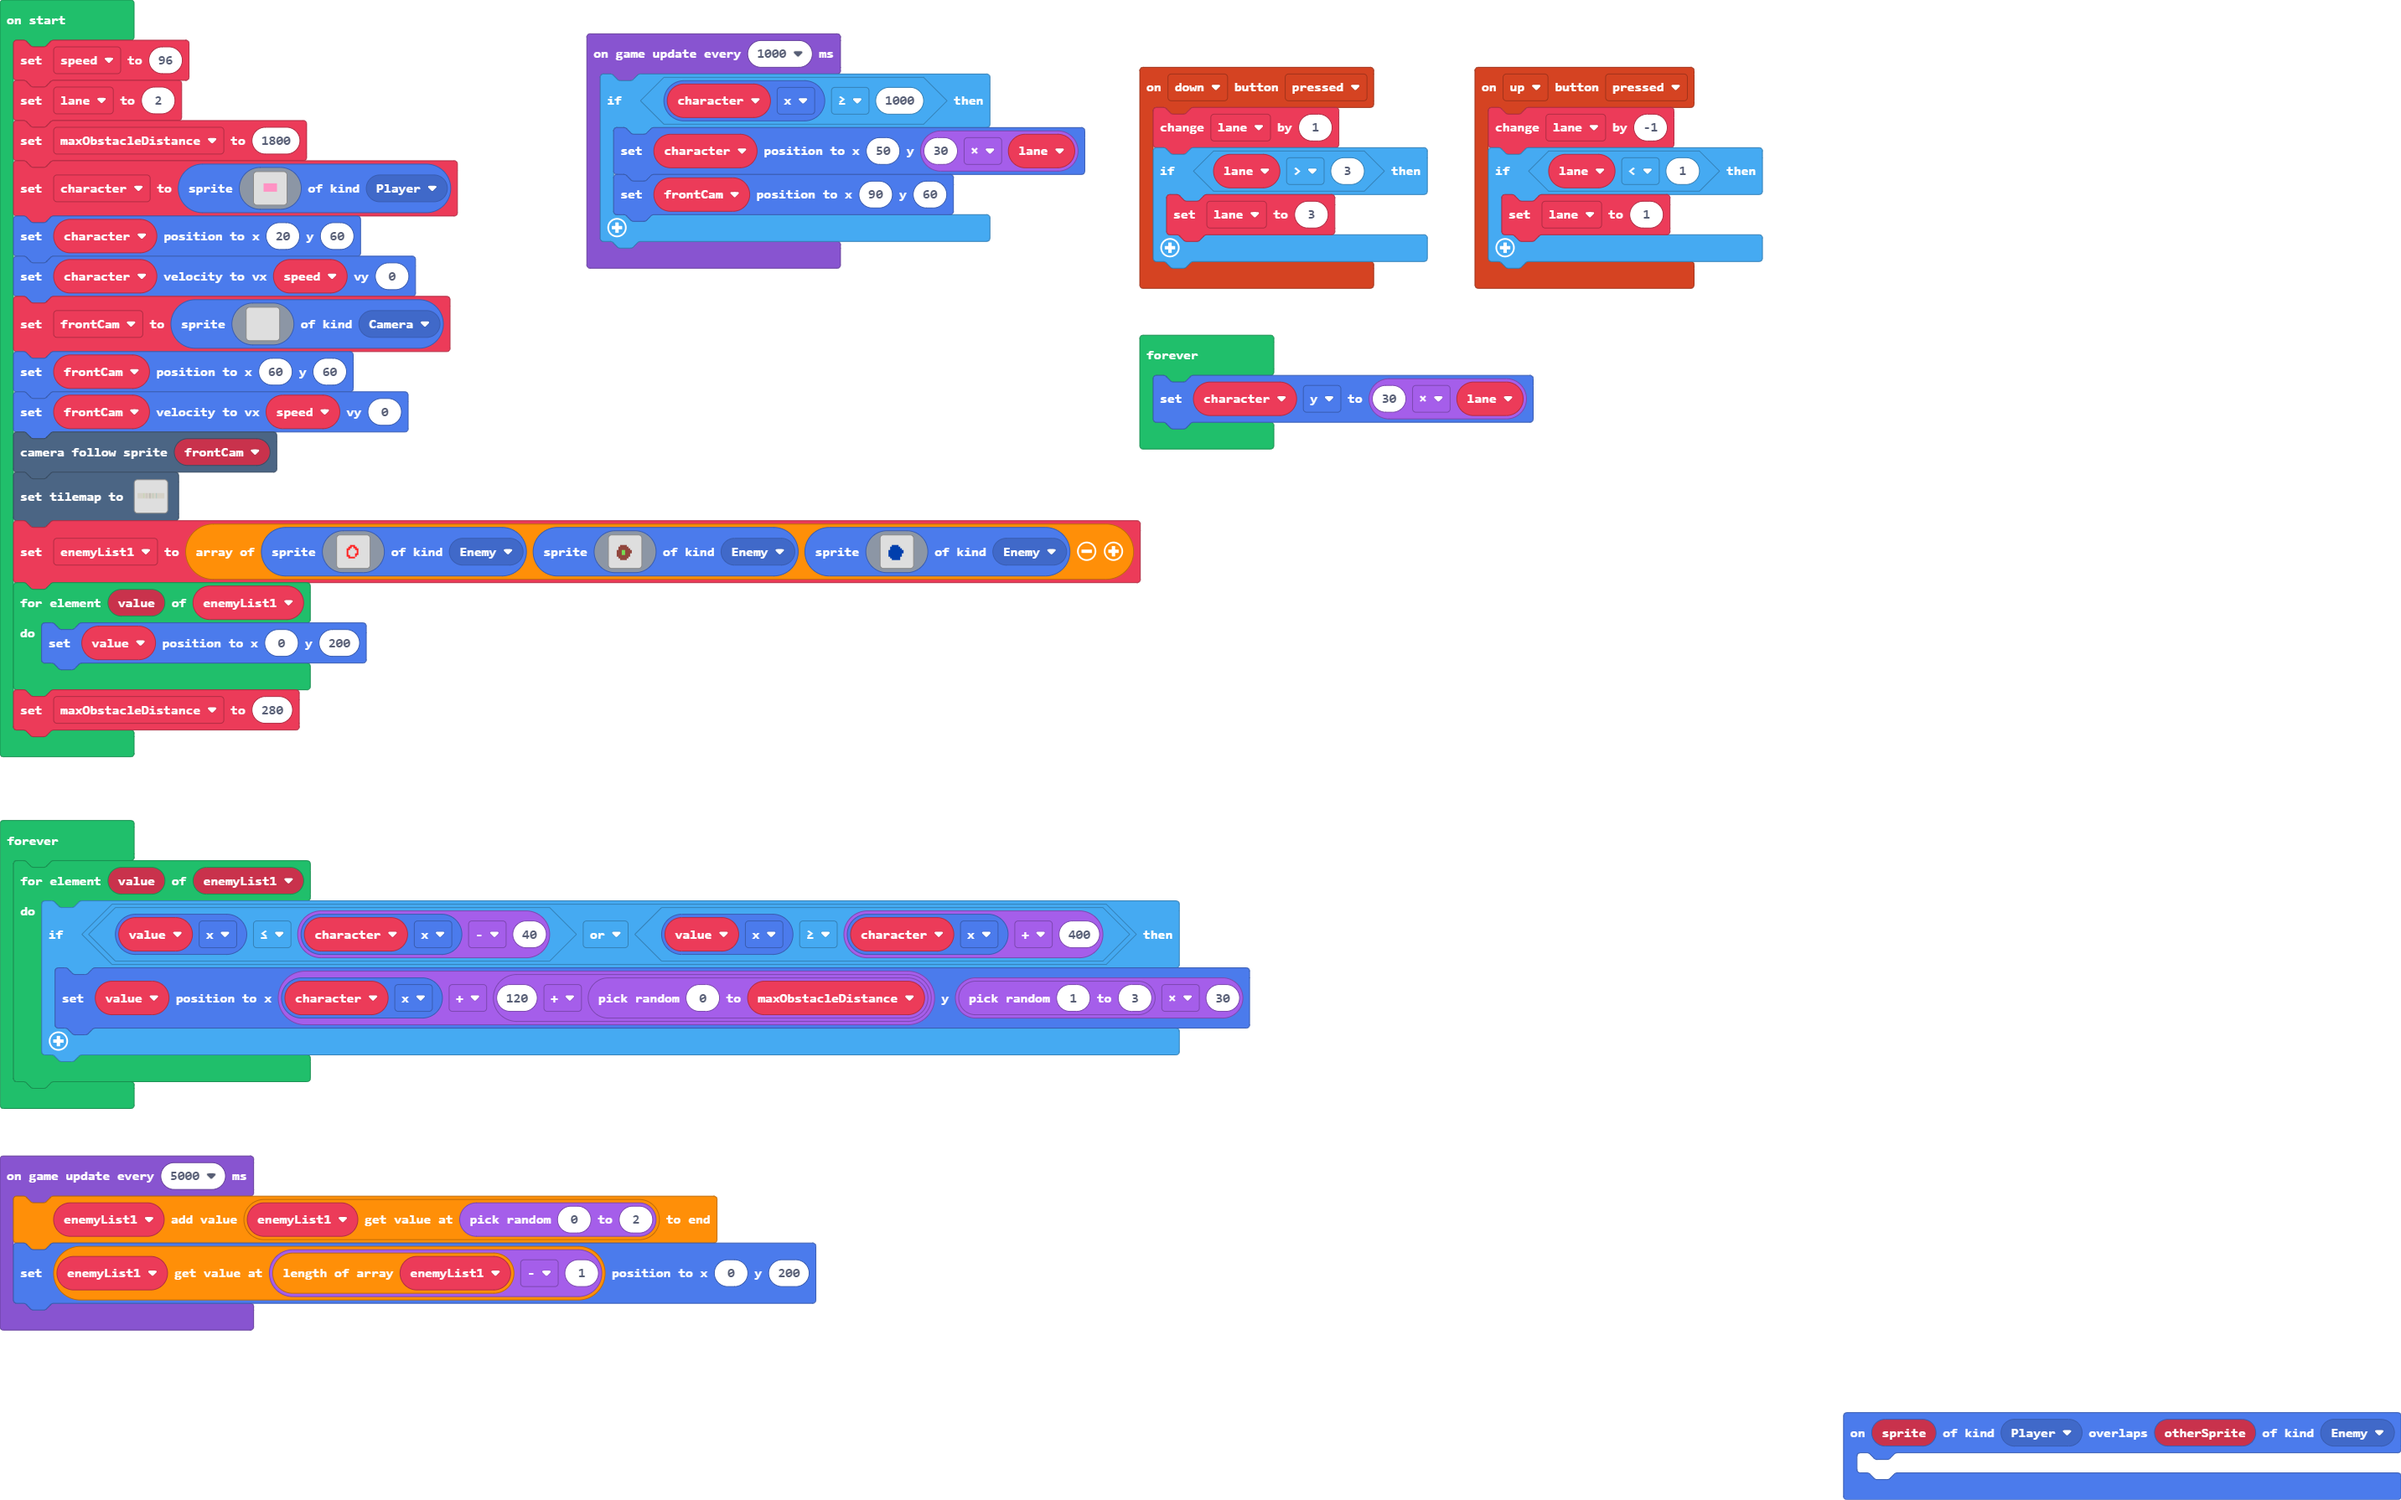
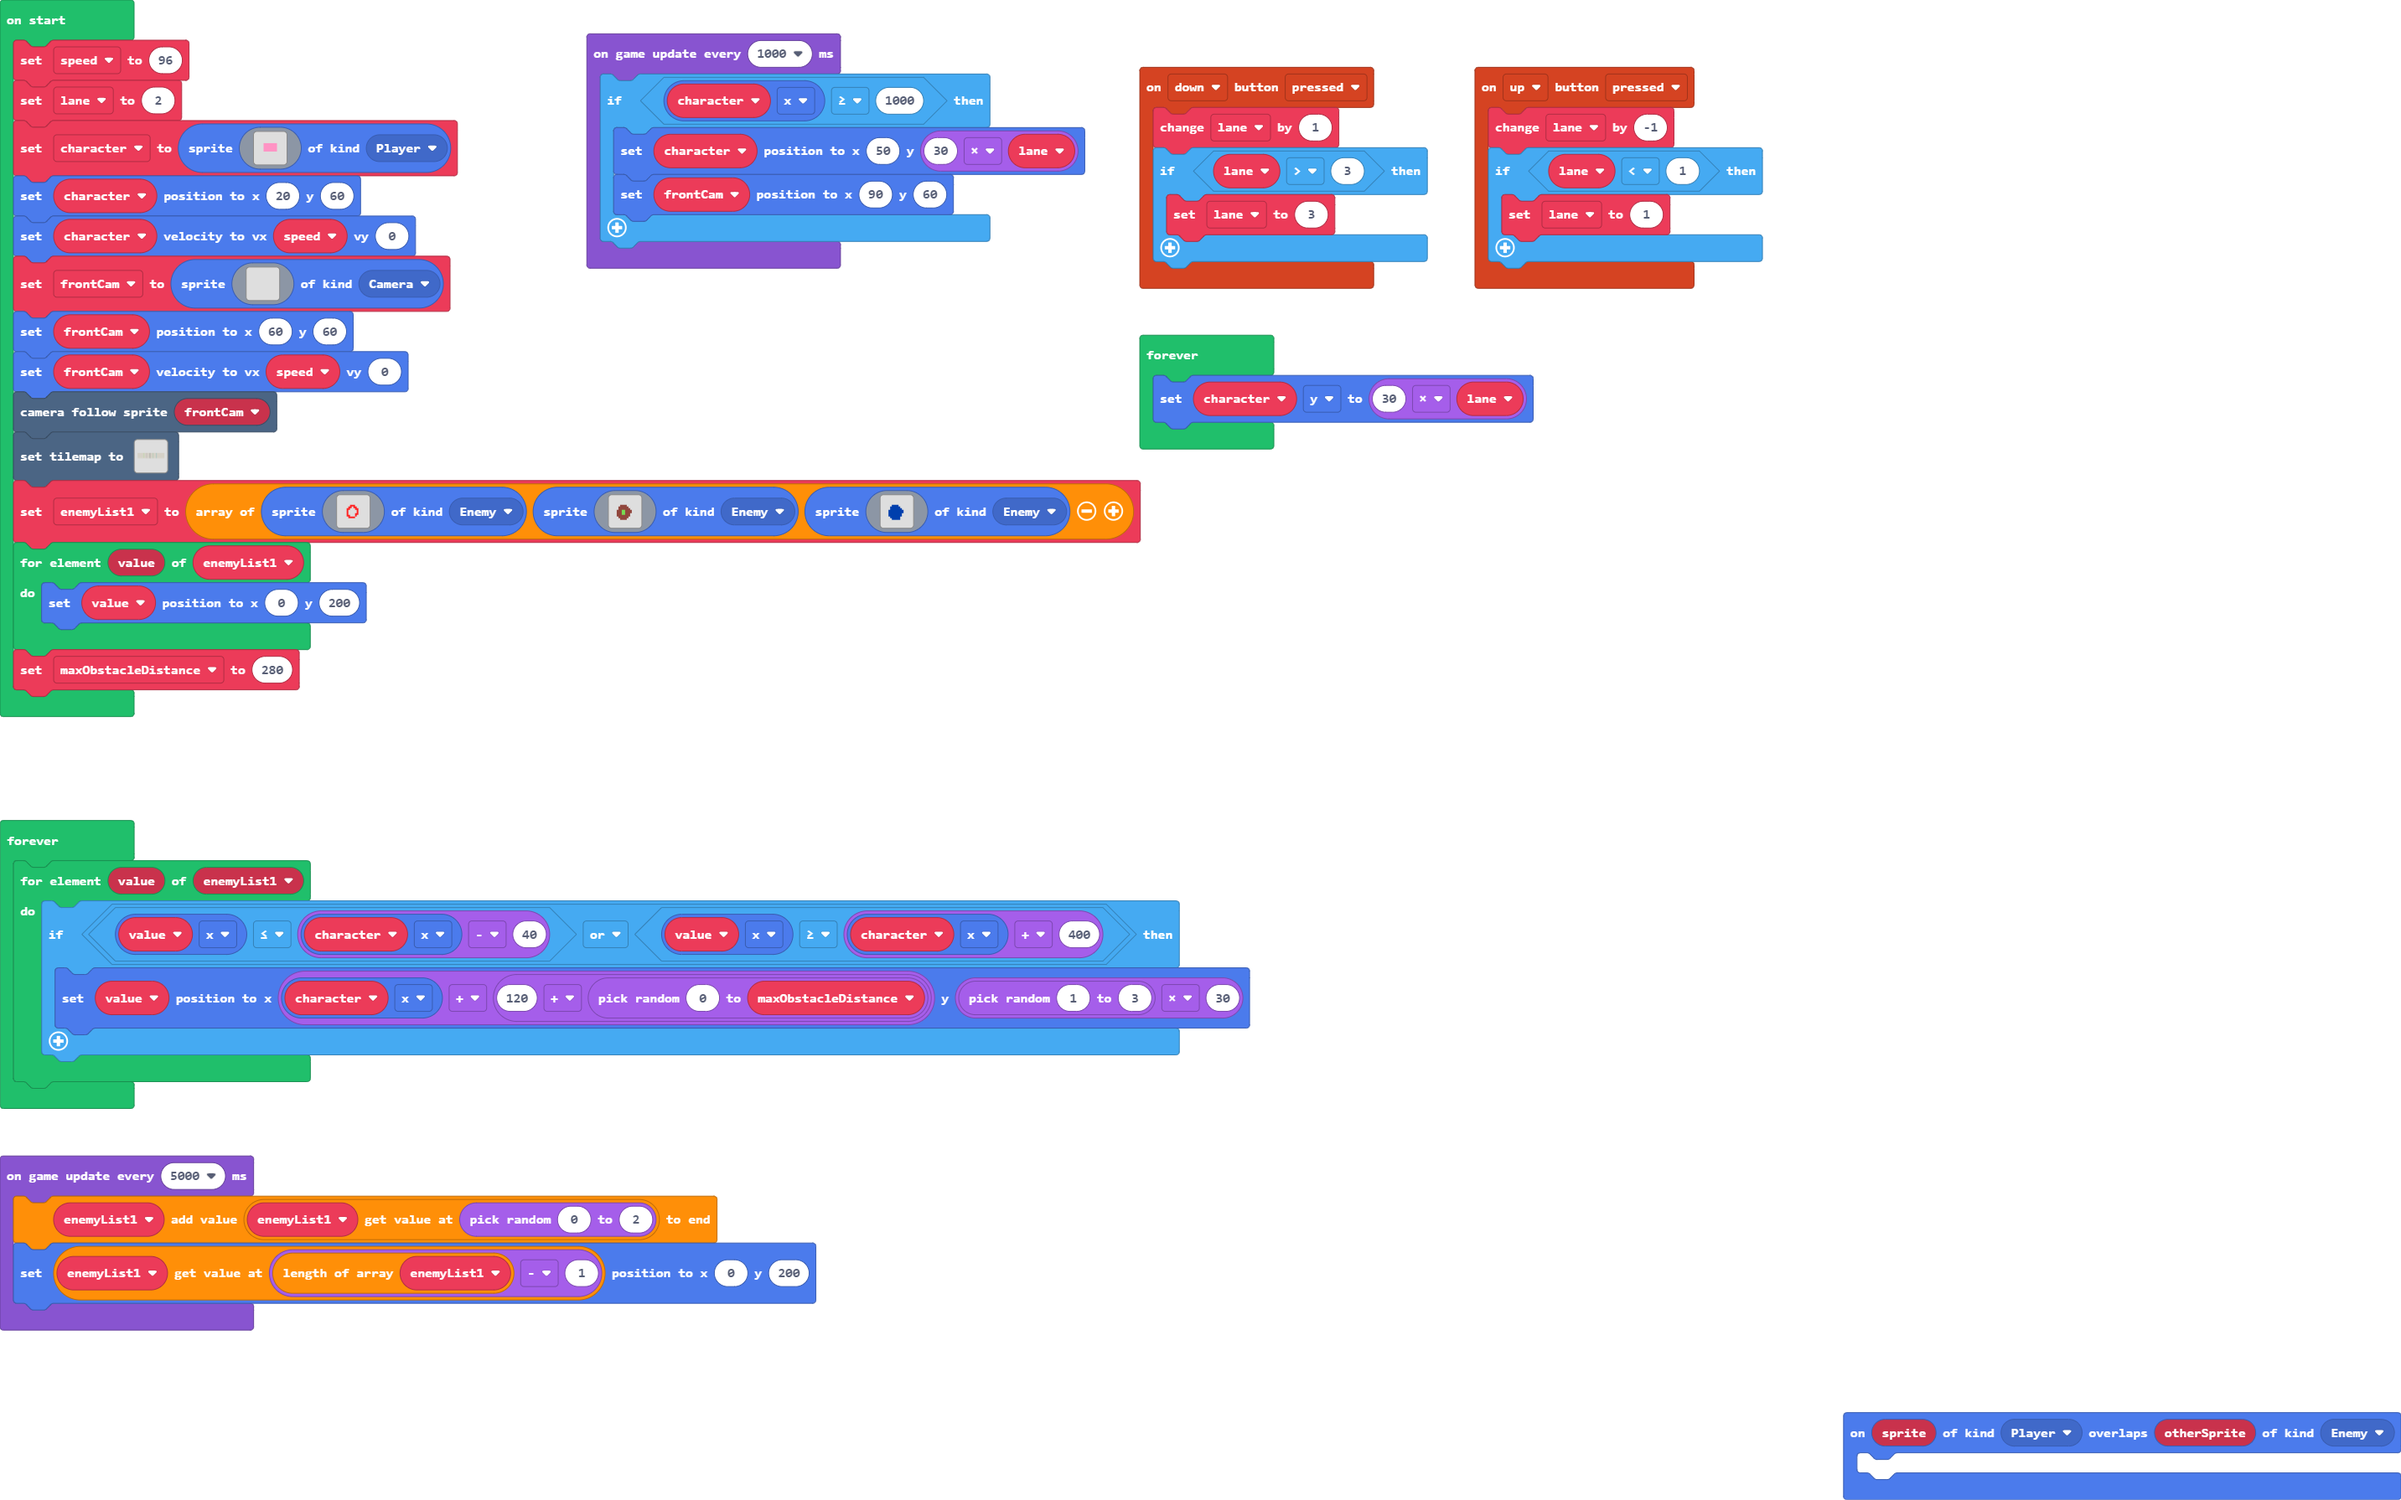
Update main.blocks, main.ts

Changed region(s): [[0.0, 0.0614, 0.497, 0.5221]]

diff --git a/main.ts b/main.ts
@@ -19,7 +19,6 @@ sprites.onOverlap(SpriteKind.Player, SpriteKind.Enemy, function (sprite, otherSp
 let lane = 0
 let speed = 96
 lane = 2
-let maxObstacleDistance = 1800
 let character = sprites.create(img`
     . . . . . . . . . . . . . . . . 
     . . . . . . . . . . . . . . . . 
@@ -117,7 +116,7 @@ let enemyList1 = [sprites.create(img`
 for (let value of enemyList1) {
     value.setPosition(0, 200)
 }
-maxObstacleDistance = 280
+let maxObstacleDistance = 280
 game.onUpdateInterval(5000, function () {
     enemyList1.push(enemyList1[randint(0, 2)])
     enemyList1[enemyList1.length - 1].setPosition(0, 200)
